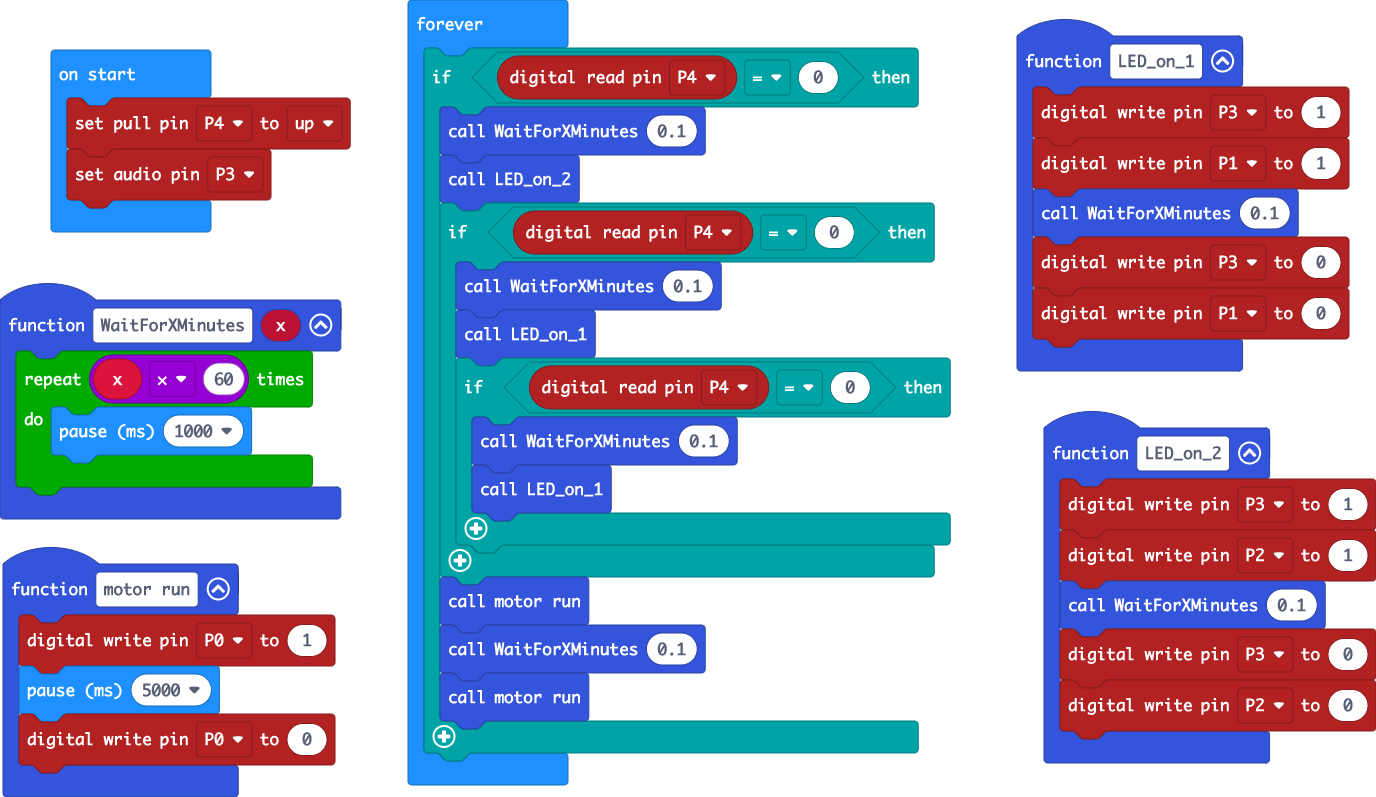
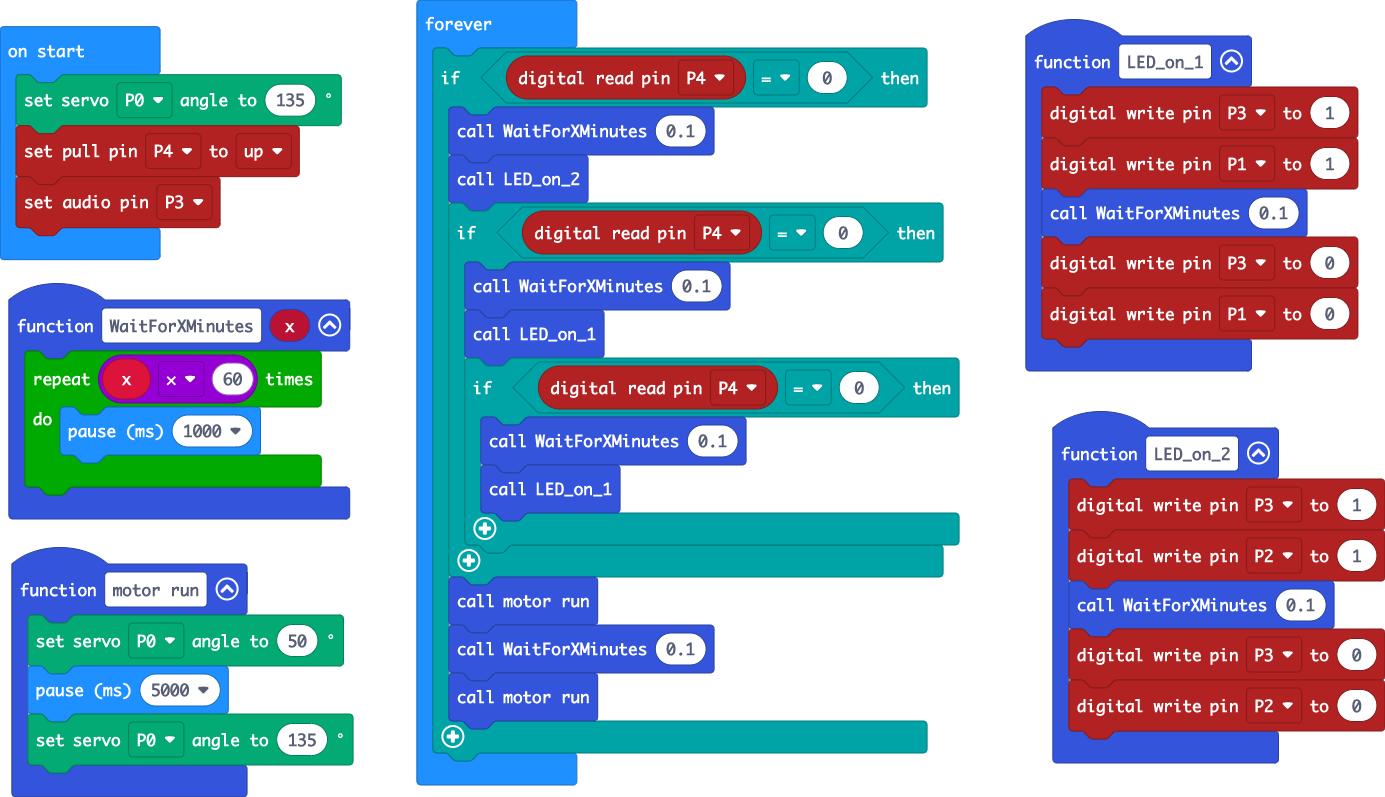
Update main.blocks, main.ts

diff --git a/main.ts b/main.ts
@@ -11,9 +11,9 @@ function WaitForXMinutes (x: number) {
     }
 }
 function motor_run () {
-    pins.digitalWritePin(DigitalPin.P0, 1)
+    servos.P0.setAngle(50)
     basic.pause(5000)
-    pins.digitalWritePin(DigitalPin.P0, 0)
+    servos.P0.setAngle(135)
 }
 function LED_on_1 () {
     pins.digitalWritePin(DigitalPin.P3, 1)
@@ -22,6 +22,7 @@ function LED_on_1 () {
     pins.digitalWritePin(DigitalPin.P3, 0)
     pins.digitalWritePin(DigitalPin.P1, 0)
 }
+servos.P0.setAngle(135)
 pins.setPull(DigitalPin.P4, PinPullMode.PullUp)
 pins.setAudioPin(AnalogPin.P3)
 basic.forever(function () {
